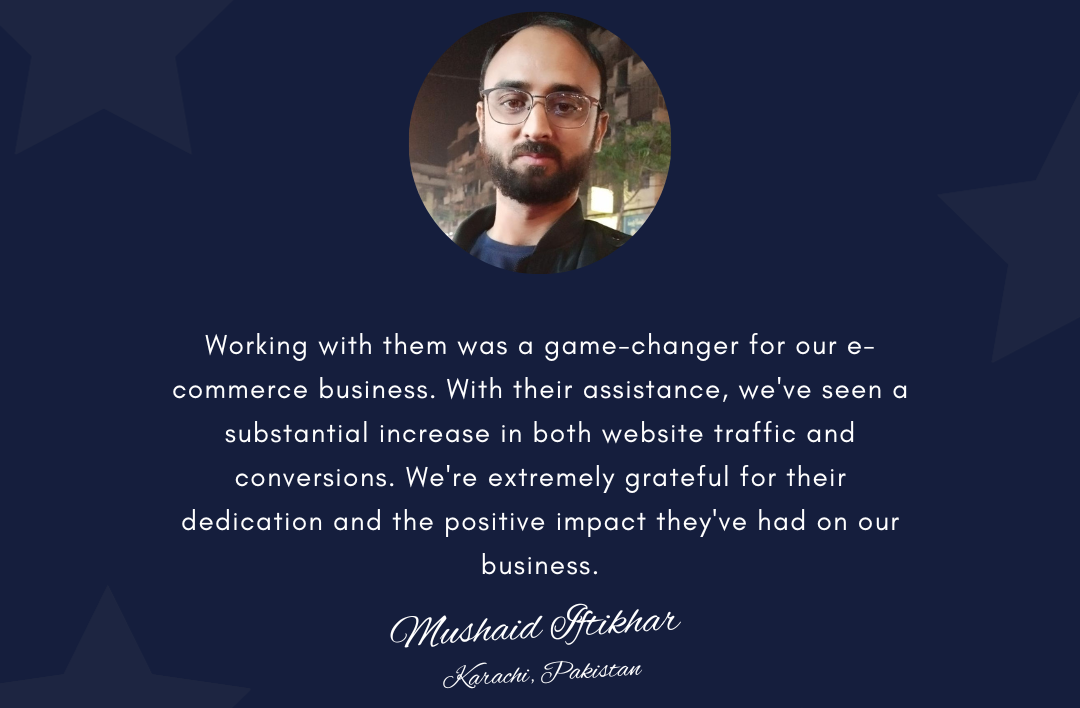
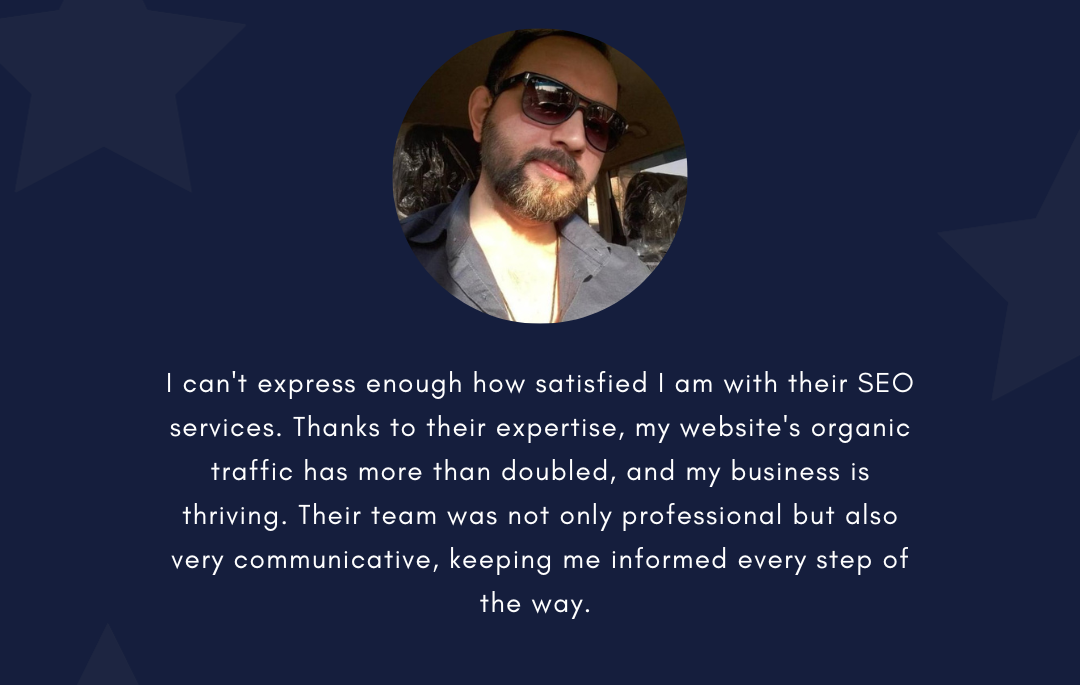
Ok but need to add grids in carousal

Changed region(s): [[0.1528, 0.0, 0.8556, 0.8277], [0.3667, 0.8584, 0.6417, 0.981]]

diff --git a/index.html b/index.html
@@ -103,8 +103,8 @@
                   <h5>Search Engine Optimization</h5>
                 </div>
                 <div class="card-inner card-back">
-                  <blockquote>Lorem ipsum dolor sit amet, consectetur adipiscing elit. Proin volutpat nisl vitae magna elementum, hendrerit volutpat nibh maximus. Duis lacinia efficitur lacinia. Pellentesque id interdum eros. Sed dignissim lacus dolor, ac cursus nulla condimentum eu. Vestibulum ut justo et tellus feugiat sagittis.
-                  </blockquote>
+                  <blockquote >Lorem ipsum dolor sit amet, consectetur adipiscing elit. Proin volutpat nisl vitae magna elementum, hendrerit volutpat nibh maximus. Duis lacinia efficitur lacinia. Pellentesque id interdum eros. Sed dignissim lacus dolor, ac cursus nulla condimentum eu. Vestibulum ut justo et tellus feugiat sagittis.
+                  </blockquote >
                   <div class="d-grid">
                     <button type="button" class="btn btn-outline-dark">Learn More</button>
                   </div>
@@ -118,8 +118,8 @@
                 <h5>Email Marketing</h5>
               </div>
               <div class="card-inner card-back">
-              <blockquote>Lorem ipsum dolor sit amet, consectetur adipiscing elit. Proin volutpat nisl vitae magna elementum, hendrerit volutpat nibh maximus. Duis lacinia efficitur lacinia. Pellentesque id interdum eros. Sed dignissim lacus dolor, ac cursus nulla condimentum eu. Vestibulum ut justo et tellus feugiat sagittis.
-              </blockquote>
+              <blockquote >Lorem ipsum dolor sit amet, consectetur adipiscing elit. Proin volutpat nisl vitae magna elementum, hendrerit volutpat nibh maximus. Duis lacinia efficitur lacinia. Pellentesque id interdum eros. Sed dignissim lacus dolor, ac cursus nulla condimentum eu. Vestibulum ut justo et tellus feugiat sagittis.
+              </blockquote >
               <div class="d-grid">
                 <button type="button" class="btn btn-outline-dark">Learn More</button>
                 </div>
@@ -133,8 +133,8 @@
                   <h5>Web Development</h5>
                 </div>
               <div class="card-inner card-back">
-                <blockquote>Lorem ipsum dolor sit amet, consectetur adipiscing elit. Proin volutpat nisl vitae magna elementum, hendrerit volutpat nibh maximus. Duis lacinia efficitur lacinia. Pellentesque id interdum eros. Sed dignissim lacus dolor, ac cursus nulla condimentum eu. Vestibulum ut justo et tellus feugiat sagittis.
-                </blockquote>
+                <blockquote >Lorem ipsum dolor sit amet, consectetur adipiscing elit. Proin volutpat nisl vitae magna elementum, hendrerit volutpat nibh maximus. Duis lacinia efficitur lacinia. Pellentesque id interdum eros. Sed dignissim lacus dolor, ac cursus nulla condimentum eu. Vestibulum ut justo et tellus feugiat sagittis.
+                </blockquote >
                 <div class="d-grid">
                   <button type="button" class="btn btn-outline-dark">Learn More</button>
                 </div>
@@ -149,8 +149,8 @@
                 <h5>Social Media Marketing</h5>
               </div>
               <div class="card-inner card-back">
-                <blockquote>Lorem ipsum dolor sit amet, consectetur adipiscing elit. Proin volutpat nisl vitae magna elementum, hendrerit volutpat nibh maximus. Duis lacinia efficitur lacinia. Pellentesque id interdum eros. Sed dignissim lacus dolor, ac cursus nulla condimentum eu. Vestibulum ut justo et tellus feugiat sagittis.
-                </blockquote>
+                <blockquote >Lorem ipsum dolor sit amet, consectetur adipiscing elit. Proin volutpat nisl vitae magna elementum, hendrerit volutpat nibh maximus. Duis lacinia efficitur lacinia. Pellentesque id interdum eros. Sed dignissim lacus dolor, ac cursus nulla condimentum eu. Vestibulum ut justo et tellus feugiat sagittis.
+                </blockquote >
                 <div class="d-grid">
                   <button type="button" class="btn btn-outline-dark">Learn More</button>
                 </div>
@@ -164,8 +164,8 @@
                   <h5>Youtube Marketing</h5>
                 </div>  
                 <div class="card-inner card-back">
-              <blockquote>Lorem ipsum dolor sit amet, consectetur adipiscing elit. Proin volutpat nisl vitae magna elementum, hendrerit volutpat nibh maximus. Duis lacinia efficitur lacinia. Pellentesque id interdum eros. Sed dignissim lacus dolor, ac cursus nulla condimentum eu. Vestibulum ut justo et tellus feugiat sagittis.
-              </blockquote>
+              <blockquote >Lorem ipsum dolor sit amet, consectetur adipiscing elit. Proin volutpat nisl vitae magna elementum, hendrerit volutpat nibh maximus. Duis lacinia efficitur lacinia. Pellentesque id interdum eros. Sed dignissim lacus dolor, ac cursus nulla condimentum eu. Vestibulum ut justo et tellus feugiat sagittis.
+              </blockquote >
               <div class="d-grid">
                 <button type="button" class="btn btn-outline-dark">Learn More</button>
               </div>            
@@ -179,8 +179,8 @@
                   <h5>Paid Ads</h5>
                 </div>
                 <div class="card-inner card-back">
-              <blockquote>Lorem ipsum dolor sit amet, consectetur adipiscing elit. Proin volutpat nisl vitae magna elementum, hendrerit volutpat nibh maximus. Duis lacinia efficitur lacinia. Pellentesque id interdum eros. Sed dignissim lacus dolor, ac cursus nulla condimentum eu. Vestibulum ut justo et tellus feugiat sagittis.
-              </blockquote>
+              <blockquote >Lorem ipsum dolor sit amet, consectetur adipiscing elit. Proin volutpat nisl vitae magna elementum, hendrerit volutpat nibh maximus. Duis lacinia efficitur lacinia. Pellentesque id interdum eros. Sed dignissim lacus dolor, ac cursus nulla condimentum eu. Vestibulum ut justo et tellus feugiat sagittis.
+              </blockquote >
               <div class="d-grid">
                 <button type="button" class="btn btn-outline-dark">Learn More</button>
                 </div>
@@ -194,7 +194,64 @@
     </section>
 
 
+    <section>
+      <h3>What it's like working with us</h3>
+      <div id="carouselId" class="carousel slide" data-bs-ride="carousel">
+        <ol class="carousel-indicators">
+          <li data-bs-target="#carouselId" data-bs-slide-to="0" class="active" aria-current="true" aria-label="First slide"></li>
+          <li data-bs-target="#carouselId" data-bs-slide-to="1" aria-label="Second slide"></li>
+          <li data-bs-target="#carouselId" data-bs-slide-to="2" aria-label="Third slide"></li>
+        </ol>
+        <div class="carousel-inner" role="listbox">
+          <div class="carousel-item active">
+            <div class="carousal-slide-cus">
+            <img src="image-1.jpg" class="rounded-pill car-item-cus" alt="First slide">  
+            <blockquote class="carousal-slide-blockq">
+                I can't express enough how satisfied I am with their SEO services. Thanks to their expertise, my website's organic traffic has more than doubled, and my business is thriving. Their team was not only professional but also very communicative, keeping me informed every step of the way. 
+              </blockquote>
+            </div>
+            <div class="carousel-caption d-none d-md-block">
+              <h3>Umai Habib</h3>
+              <p>Dubai, UAE</p>
+            </div>
+          </div>
+          <div class="carousel-item">
+            <div class="carousal-slide-cus">
+            <img src="image-2 (3).jpg" class="rounded-pill car-item-cus" alt="Second slide">
+              <blockquote class="carousal-slide-blockq">
+                Working with them was a game-changer for our e-commerce business. With their assistance, we've seen a substantial increase in both website traffic and conversions. We're extremely grateful for their dedication and the positive impact they've had on our business.
+              </blockquote>
+            </div>
+            <div class="carousel-caption d-none d-md-block">
+              <h3>Mushahid Iftikhar</h3>
+              <p>Karachi, Pakistan</p>
+            </div>
+          </div>
+          <div class="carousel-item">
+            <div class="carousal-slide-cus">
+            <img src="image-3.png" class="rounded-pill car-item-cus" alt="Third slide">
+              <blockquote class="carousal-slide-blockq">
+                We couldn't be happier with the web development services provided by Fatima Marketing.
+                Their team's commitment to building a user-friendly and visually appealing website was .  They took our vision and turned it into a fully functional and eye-catching website, and we look forward to continuing our partnership for further growth.
 
+              </blockquote>
+            </div>
+            <div class="carousel-caption d-none d-md-block">
+              <h3>Nauman Riaz</h3>
+              <p>Dubai, UAE</p>
+            </div>
+          </div>
+        </div>
+        <button class="carousel-control-prev" type="button" data-bs-target="#carouselId" data-bs-slide="prev">
+          <span class="carousel-control-prev-icon" aria-hidden="true"></span>
+          <span class="visually-hidden">Previous</span>
+        </button>
+        <button class="carousel-control-next" type="button" data-bs-target="#carouselId" data-bs-slide="next">
+          <span class="carousel-control-next-icon" aria-hidden="true"></span>
+          <span class="visually-hidden">Next</span>
+          </button>
+      </div>
+    </section>
 
 
 

diff --git a/stylesheet.css b/stylesheet.css
@@ -58,3 +58,21 @@
   
 }
 
+.car-item-cus{
+  width: 150px;
+  margin-left: 550px;
+  /* padding-left: 50px; */
+  /* height: 28rem;  */
+}
+
+.carousal-slide-cus{
+  background-color: #151e3d;
+  color: #ccc;
+  height: 22rem;
+  /* padding: 100px; */
+}
+
+.carousal-slide-blockq{
+  padding-left: 200px;
+  padding-right: 200px;
+}
